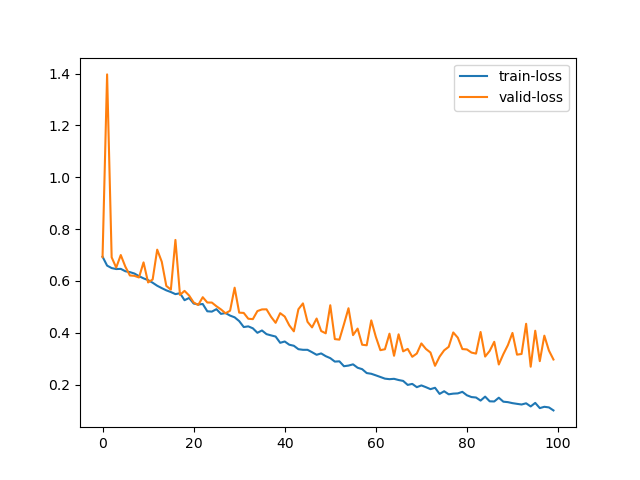
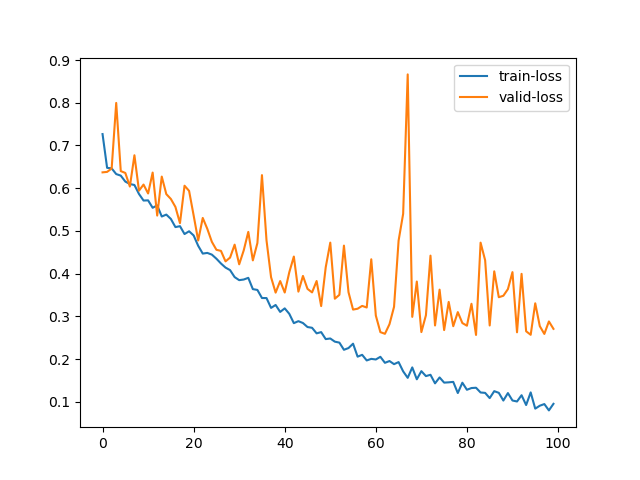
example_v1

diff --git a/models/model.py b/models/model.py
@@ -1,21 +1,69 @@
 import torch.nn as nn
+import torch
+
+class Resnet18(nn.Module):
+    def __init__(self, model):
+        super(Resnet18, self).__init__()
+        # 拿掉model的最後一層
+        self.resnet_layer = nn.Sequential(*list(model.children())[:-1])
+        self.fc = nn.Linear(512, 2) #加上一層參數修改好的全連接層
+    
+    def forward(self, x):
+        x = self.resnet_layer(x)
+        # x = x.view(x.size(0), -1)
+        x = torch.flatten(x, 1)
+        x = self.fc (x)
+
+        return x
 
 class MyResnet18(nn.Module):
     def __init__(self, model):
         super(MyResnet18, self).__init__()
-        # 拿掉model的最後一層
-        self.resnet_layer = nn.Sequential(*list(model.children())[:-1])
-        self.model = nn.Sequential(
-            nn.Linear(in_features=512, out_features=512),
-            nn.LeakyReLU(),
-            nn.Dropout(0.2),
-            nn.Linear(in_features=512, out_features=2)
+        # 拿掉model的最後三層(layer4、average pooling、fully connected)
+        self.resnet_layer = nn.Sequential(*list(model.children())[:-3])
+        # ==================================================================================== #
+        self.conv1 = nn.Sequential(
+            nn.Conv2d(in_channels=256, out_channels=512, kernel_size=3, stride=2, padding=1),
+            nn.BatchNorm2d(512),
+            nn.ReLU(inplace=True)
         )
-        # self.Linear_layer = nn.Linear(512, 2) #加上一層參數修改好的全連接層
+        self.conv2 = nn.Sequential(
+            nn.Conv2d(in_channels=512, out_channels=512, kernel_size=3, stride=1, padding=1),
+            nn.BatchNorm2d(512)
+        )
+        self.downsample = nn.Sequential(
+            nn.Conv2d(in_channels=256, out_channels=512, kernel_size=1, stride=2),
+            nn.BatchNorm2d(512)
+        )
+        self.conv3 = nn.Sequential(
+            nn.Conv2d(in_channels=512, out_channels=512, kernel_size=3, stride=1, padding=1),
+            nn.BatchNorm2d(512),
+            nn.ReLU(inplace=True)
+        )
+        self.conv4 = nn.Sequential(
+            nn.Conv2d(in_channels=512, out_channels=512, kernel_size=3, stride=1, padding=1),
+            nn.BatchNorm2d(512),
+        )
+        # ==================================================================================== #
+        self.avgpool = nn.AdaptiveAvgPool2d((1, 1))
+        self.fc = nn.Linear(512, 2)
 
     def forward(self, x):
         x = self.resnet_layer(x)
-        x = x.view(x.size(0), -1)
-        x = self.model(x)
-        # x = self.Linear_layer(x)
-        return x
+
+        out = self.conv1(x)
+        out = self.conv2(out)
+        identity = self.downsample(x)
+        out += identity
+        out = nn.ReLU()(out)
+        identity = out
+        out = self.conv3(out)
+        out = self.conv4(out)
+        out += identity
+        out = nn.ReLU()(out)
+
+        out = self.avgpool(out)
+        out = torch.flatten(out, 1)
+        out = self.fc (out)
+
+        return out

diff --git a/train.py b/train.py
@@ -3,6 +3,7 @@ import torch.nn as nn
 from datasets.dataloader import make_train_dataloader
 from torchvision.models.resnet import resnet18
 from models.model import MyResnet18
+from models.model import Resnet18
 
 import os
 import copy
@@ -10,10 +11,12 @@ from tqdm import tqdm
 import pandas as pd
 from matplotlib import pyplot as plt
 
+# training parameters
 device = torch.device('cuda:0' if torch.cuda.is_available() else 'cpu')
 epochs = 100
 learning_rate = 0.001
 
+# data path and weight path
 base_path = os.path.dirname(os.path.abspath(__file__))
 train_data_path = os.path.join(base_path, "data", "train")
 weight_path = os.path.join(base_path, "weights", "weight.pth")
@@ -21,15 +24,16 @@ weight_path = os.path.join(base_path, "weights", "weight.pth")
 # make dataloader for train data
 train_loader, valid_loader = make_train_dataloader(train_data_path)
 
-# set model
+# set model, we use Resnet18
 resnet = resnet18(pretrained=False)
 model = MyResnet18(resnet)
 model = model.to(device)
 
 # set optimizer and loss function
-optimizer = torch.optim.AdamW(model.parameters(), lr=learning_rate)
+optimizer = torch.optim.Adam(model.parameters(), lr=learning_rate)
 criterion = nn.CrossEntropyLoss()
 
+# train
 train_loss_list = list()
 valid_loss_list = list()
 train_accuracy_list = list()
@@ -78,15 +82,18 @@ for epoch in range(epochs):
         valid_accuracy = float(valid_correct) / len(valid_loader.dataset)
         valid_accuracy_list.append((valid_accuracy))
     
-    # print loss in one epoch
+    # print loss and accuracy in one epoch
     print(f'Training loss: {train_loss:.4f}, validation loss: {valid_loss:.4f}')
     print(f'Training accuracy: {train_accuracy:.4f}, validation accuracy: {valid_accuracy:.4f}')
 
+    # record best weight so far
     if valid_loss < best :
         best = valid_loss
         best_model_wts = copy.deepcopy(model.state_dict())
-
+# save the best weight
 torch.save(best_model_wts, weight_path)
+
+# plot the loss curve for training and validation
 print("\nFinished Training")
 pd.DataFrame({
     "train-loss": train_loss_list,
@@ -94,6 +101,7 @@ pd.DataFrame({
 }).plot()
 plt.savefig(os.path.join(base_path, "result", "Loss_curve"))
 
+# plot the accuracy curve for training and validation
 pd.DataFrame({
     "train-accuracy": train_accuracy_list,
     "valid-accuracy": valid_accuracy_list

diff --git a/test.py b/test.py
@@ -3,6 +3,7 @@ from models.model import MyResnet18
 from datasets.dataloader import make_test_dataloader
 from torchvision.models.resnet import resnet18
 from models.model import MyResnet18
+from models.model import Resnet18
 
 import os
 from tqdm import tqdm

diff --git a/datasets/dataloader.py b/datasets/dataloader.py
@@ -3,7 +3,7 @@ from torchvision import datasets
 from torchvision import transforms
 from torch.utils.data import DataLoader
 
-# torch.manual_seed(0)
+torch.manual_seed(0)
 
 train_batch_size = 32
 test_batch_size = 2
